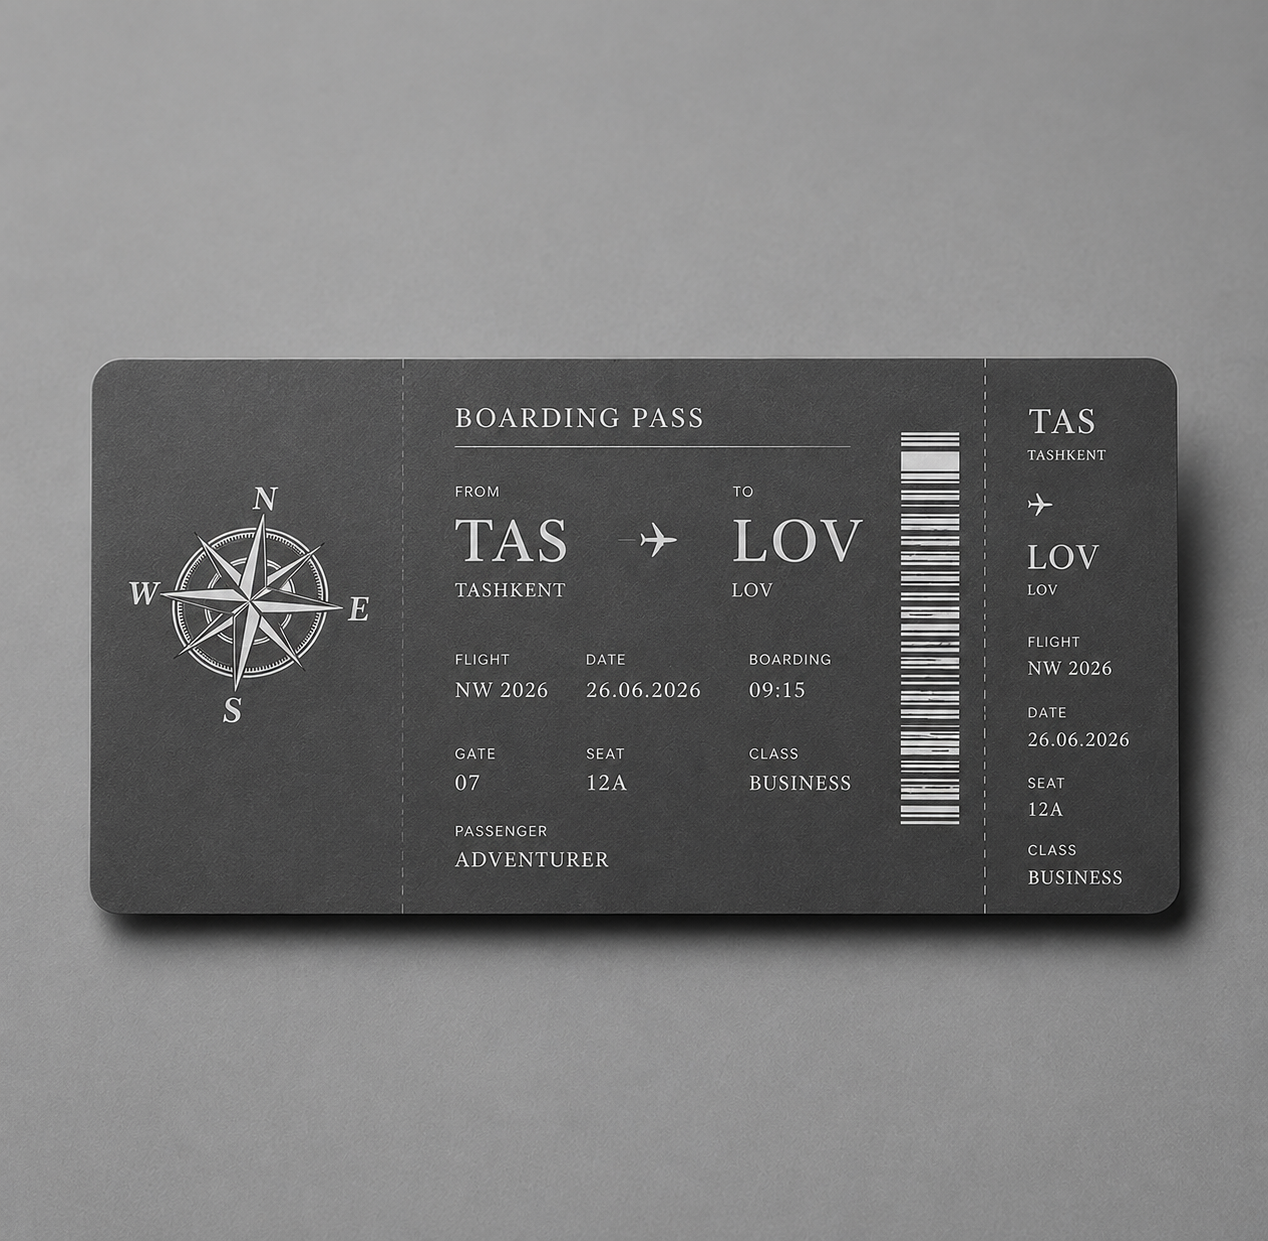
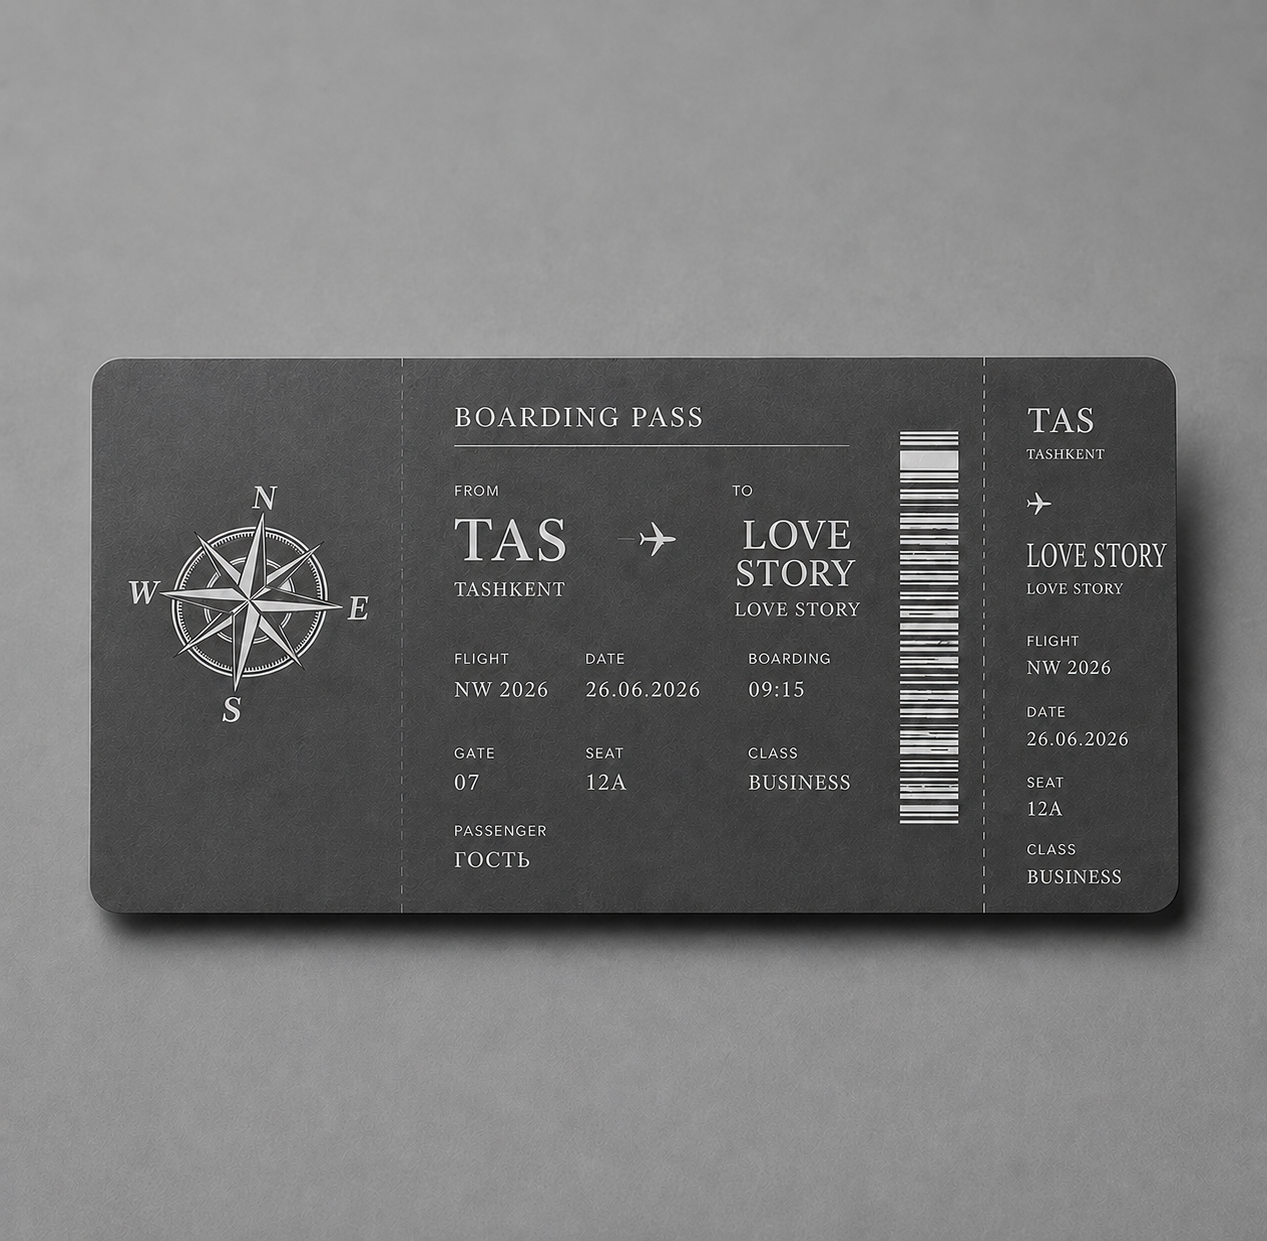
changes photos

diff --git a/src/routes/index.tsx b/src/routes/index.tsx
@@ -306,7 +306,7 @@ function MiniTicket() {
         <div className="font-mono text-[8px] tracking-[0.3em] text-muted-foreground uppercase">
           Boarding
         </div>
-        <div className="font-display text-xl">TAS → LOV</div>
+        <div className="font-display text-xl">TAS → Love Story</div>
       </div>
       <div className="barcode w-20 h-10" />
     </div>
@@ -360,7 +360,7 @@ function BoardingPass() {
             {[
               { label: "Пассажир", value: "Уважаемый гость", mono: false },
               { label: "От", value: "TAS · Ташкент" },
-              { label: "К", value: "LOV · Любовь" },
+              { label: "К", value: "Love Story · Любовь" },
               { label: "Дата", value: "26 · 06 · 2026" },
               { label: "Время посадки", value: "15:30" },
               { label: "Церемония", value: "16:00" },
@@ -413,7 +413,7 @@ function BoardingPass() {
             </div>
             <div className="font-display text-xl mt-1">A · F</div>
             <div className="mt-6 space-y-2 font-mono text-[10px] tracking-[0.2em] uppercase">
-              <div>TAS → LOV</div>
+              <div>TAS → Love Story</div>
               <div>26 · 06 · 26</div>
               <div>Gate 01 · Seat 1A</div>
             </div>
@@ -1213,7 +1213,7 @@ function Footer() {
           </div>
           <div className="font-mono text-[10px] tracking-[0.3em] uppercase text-white/50 space-y-1 text-right">
             <div>Wedding Airlines · AF 0626</div>
-            <div>TAS → LOV · Gate 01</div>
+            <div>TAS → Love Story · Gate 01</div>
             <div>26 · 06 · 2026 · 16:00</div>
           </div>
         </div>
